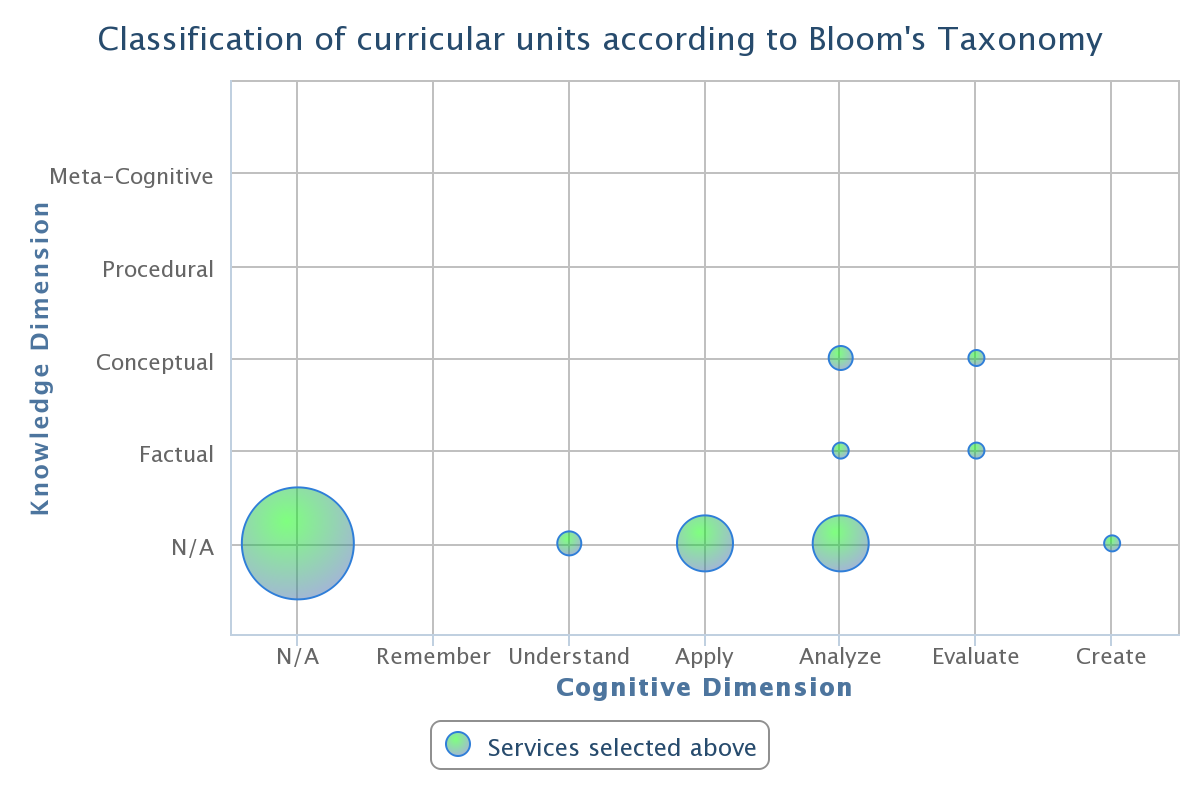
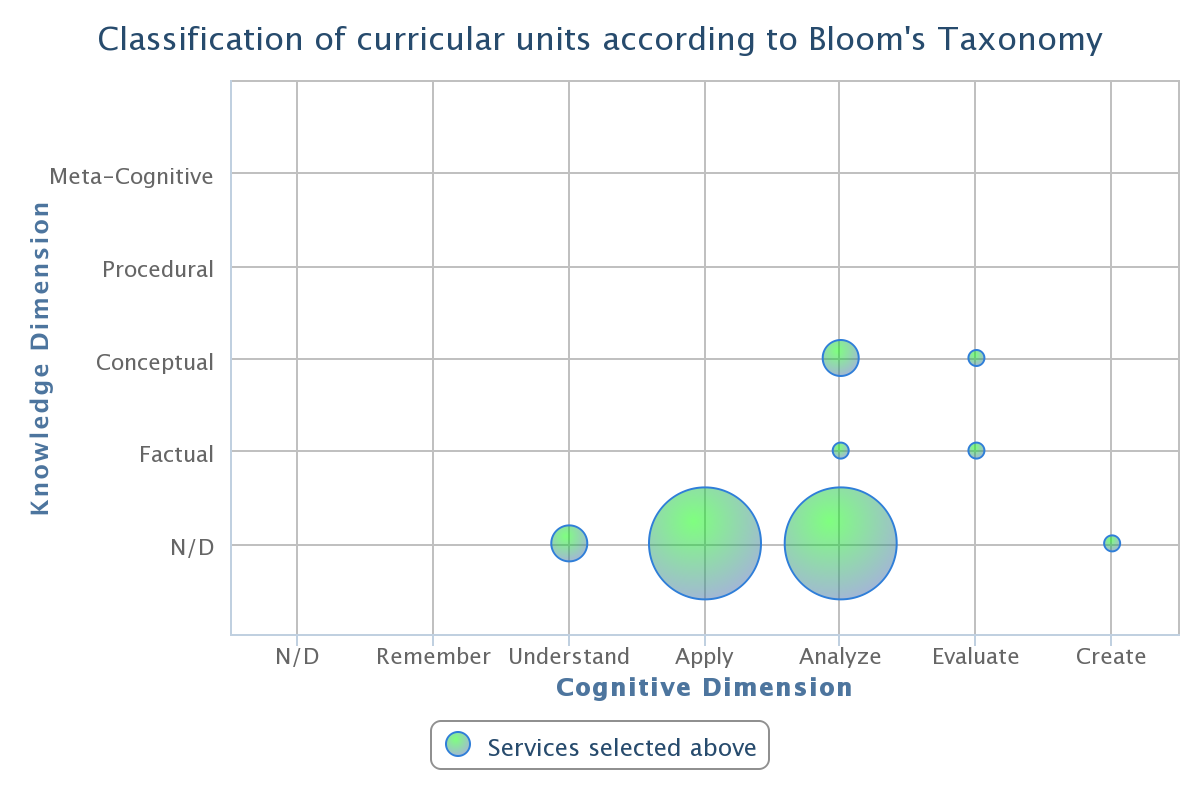
prints

diff --git a/webplatform/app/controllers/welcome_controller.rb b/webplatform/app/controllers/welcome_controller.rb
@@ -654,7 +654,7 @@ class WelcomeController < ApplicationController
 			f.options[:title][:text] = "Average of Curricular objectives according to Bloom's Taxonomy"
 			f.options[:xAxis]={
 				:title => {:text => "Cognitive Dimension"},
-				:categories => ["N/A", "Remember" ,"Understand" , "Apply" , "Analyze" , "Evaluate" , "Create"],
+				:categories => ["N/D", "Remember" ,"Understand" , "Apply" , "Analyze" , "Evaluate" , "Create"],
 				:tickPositions => [0,1,2,3,4,5,6],
 				:gridLineWidth => '1',
 				:lineWidth => 1,
@@ -664,7 +664,7 @@ class WelcomeController < ApplicationController
 			}
 			f.options[:yAxis]={
 				:title => {:text => "Knowledge Dimension"},
-				:categories => ["N/A", "Factual" ,"Conceptual" , "Procedural" , "Meta-Cognitive"],
+				:categories => ["N/D", "Factual" ,"Conceptual" , "Procedural" , "Meta-Cognitive"],
 				:tickPositions => [0,1,2,3,4],
 				:gridLineWidth => '1',
 				:lineWidth => 1,
@@ -689,7 +689,7 @@ class WelcomeController < ApplicationController
 			f.options[:title][:text] = "Objectives Identified according to Bloom's Taxonomy"
 			f.options[:xAxis]={
 				:title => {:text => "Cognitive Dimension"},
-				:categories => ["N/A", "Remember" ,"Understand" , "Apply" , "Analyze" , "Evaluate" , "Create"],
+				:categories => ["N/D", "Remember" ,"Understand" , "Apply" , "Analyze" , "Evaluate" , "Create"],
 				:tickPositions => [0,1,2,3,4,5,6],
 				:gridLineWidth => '1',
 				:lineWidth => 1,
@@ -699,7 +699,7 @@ class WelcomeController < ApplicationController
 			}
 			f.options[:yAxis]={
 				:title => {:text => "Knowledge Dimension"},
-				:categories => ["N/A", "Factual" ,"Conceptual" , "Procedural" , "Meta-Cognitive"],
+				:categories => ["N/D", "Factual" ,"Conceptual" , "Procedural" , "Meta-Cognitive"],
 				:tickPositions => [0,1,2,3,4],
 				:gridLineWidth => '1',
 				:lineWidth => 1,
@@ -1078,7 +1078,7 @@ class WelcomeController < ApplicationController
 				f.options[:title][:text] = "Objectives trend according to Bloom's Taxonomy"
 				f.options[:xAxis]={
 					:title => {:text => "Cognitive Dimension"},
-					:categories => ["N/A", "Remember" ,"Understand" , "Apply" , "Analyze" , "Evaluate" , "Create"],
+					:categories => ["N/D", "Remember" ,"Understand" , "Apply" , "Analyze" , "Evaluate" , "Create"],
 					:tickPositions => [0,1,2,3,4,5,6],
 					:gridLineWidth => '1',
 					:lineWidth => 1,
@@ -1088,7 +1088,7 @@ class WelcomeController < ApplicationController
 				}
 				f.options[:yAxis]={
 					:title => {:text => "Knowledge Dimension"},
-					:categories => ["N/A", "Factual" ,"Conceptual" , "Procedural" , "Meta-Cognitive"],
+					:categories => ["N/D", "Factual" ,"Conceptual" , "Procedural" , "Meta-Cognitive"],
 					:tickPositions => [0,1,2,3,4],
 					:gridLineWidth => '1',
 					:lineWidth => 1,
@@ -1113,7 +1113,7 @@ class WelcomeController < ApplicationController
 				f.options[:title][:text] = "Objectives identified according to Bloom's Taxonomy"
 				f.options[:xAxis]={
 					:title => {:text => "Cognitive Dimension"},
-					:categories => ["N/A", "Remember" ,"Understand" , "Apply" , "Analyze" , "Evaluate" , "Create"],
+					:categories => ["N/D", "Remember" ,"Understand" , "Apply" , "Analyze" , "Evaluate" , "Create"],
 					:tickPositions => [0,1,2,3,4,5,6],
 					:gridLineWidth => '1',
 					:lineWidth => 1,
@@ -1123,7 +1123,7 @@ class WelcomeController < ApplicationController
 				}
 				f.options[:yAxis]={
 					:title => {:text => "Knowledge Dimension"},
-					:categories => ["N/A", "Factual" ,"Conceptual" , "Procedural" , "Meta-Cognitive"],
+					:categories => ["N/D", "Factual" ,"Conceptual" , "Procedural" , "Meta-Cognitive"],
 					:tickPositions => [0,1,2,3,4],
 					:gridLineWidth => '1',
 					:lineWidth => 1,
@@ -1371,7 +1371,7 @@ class WelcomeController < ApplicationController
 		# 	f.options[:title][:text] = "Avegare of Dregree according to Bloom's Taxonomy"
 		# 	f.options[:xAxis]={
 		# 		:title => {:text => "Cognitive Dimension"},
-		# 		:categories => ["N/A", "Remember" ,"Understand" , "Apply" , "Analyze" , "Evaluate" , "Create"],
+		# 		:categories => ["N/D", "Remember" ,"Understand" , "Apply" , "Analyze" , "Evaluate" , "Create"],
 		# 		:tickPositions => [0,1,2,3,4,5,6],
 		# 		:gridLineWidth => '1',
 		# 		:lineWidth => 1,
@@ -1381,7 +1381,7 @@ class WelcomeController < ApplicationController
 		# 	}
 		# 	f.options[:yAxis]={
 		# 		:title => {:text => "Knowledge Dimension"},
-		# 		:categories => ["N/A", "Factual" ,"Conceptual" , "Procedural" , "Meta-Cognitive"],
+		# 		:categories => ["N/D", "Factual" ,"Conceptual" , "Procedural" , "Meta-Cognitive"],
 		# 		:tickPositions => [0,1,2,3,4],
 		# 		:gridLineWidth => '1',
 		# 		:lineWidth => 1,
@@ -1412,7 +1412,7 @@ class WelcomeController < ApplicationController
 			f.options[:title][:text] = "Objectives of each curricular unit according to Bloom's Taxonomy"
 			f.options[:xAxis]={
 				:title => {:text => "Cognitive Dimension"},
-				:categories => ["N/A", "Remember" ,"Understand" , "Apply" , "Analyze" , "Evaluate" , "Create"],
+				:categories => ["N/D", "Remember" ,"Understand" , "Apply" , "Analyze" , "Evaluate" , "Create"],
 				:tickPositions => [0,1,2,3,4,5,6],
 				:gridLineWidth => '1',
 				:lineWidth => 1,
@@ -1422,7 +1422,7 @@ class WelcomeController < ApplicationController
 			}
 			f.options[:yAxis]={
 				:title => {:text => "Knowledge Dimension"},
-				:categories => ["N/A", "Factual" ,"Conceptual" , "Procedural" , "Meta-Cognitive"],
+				:categories => ["N/D", "Factual" ,"Conceptual" , "Procedural" , "Meta-Cognitive"],
 				:tickPositions => [0,1,2,3,4],
 				:gridLineWidth => '1',
 				:lineWidth => 1,
@@ -1464,7 +1464,7 @@ class WelcomeController < ApplicationController
 			f.options[:title][:text] = "Classification of curricular units according to Bloom's Taxonomy"
 			f.options[:xAxis]={
 				:title => {:text => "Cognitive Dimension"},
-				:categories => ["N/A", "Remember" ,"Understand" , "Apply" , "Analyze" , "Evaluate" , "Create"],
+				:categories => ["N/D", "Remember" ,"Understand" , "Apply" , "Analyze" , "Evaluate" , "Create"],
 				:tickPositions => [0,1,2,3,4,5,6],
 				:gridLineWidth => '1',
 				:lineWidth => 1,
@@ -1474,7 +1474,7 @@ class WelcomeController < ApplicationController
 			}
 			f.options[:yAxis]={
 				:title => {:text => "Knowledge Dimension"},
-				:categories => ["N/A", "Factual" ,"Conceptual" , "Procedural" , "Meta-Cognitive",""],
+				:categories => ["N/D", "Factual" ,"Conceptual" , "Procedural" , "Meta-Cognitive",""],
 				:tickPositions => [0,1,2,3,4,5],
 				:gridLineWidth => '1',
 				:lineWidth => 1,
@@ -1880,7 +1880,7 @@ class WelcomeController < ApplicationController
 
 		end
 
-
+		@a[0][0]=0
 		@final=Hash.new
 		sorted = @context.sorted_hash{ |a, b| -a[1]["n"] <=> -b[1]["n"] }
 
@@ -1923,7 +1923,7 @@ class WelcomeController < ApplicationController
 		# 	f.options[:title][:text] = "Average of Curricular units according to Bloom's Taxonomy"
 		# 	f.options[:xAxis]={
 		# 		:title => {:text => "Cognitive Dimension"},
-		# 		:categories => ["N/A", "Remember" ,"Understand" , "Apply" , "Analyze" , "Evaluate" , "Create"],
+		# 		:categories => ["N/D", "Remember" ,"Understand" , "Apply" , "Analyze" , "Evaluate" , "Create"],
 		# 		:tickPositions => [0,1,2,3,4,5,6],
 		# 		:gridLineWidth => '1',
 		# 		:lineWidth => 1,
@@ -1933,7 +1933,7 @@ class WelcomeController < ApplicationController
 		# 	}
 		# 	f.options[:yAxis]={
 		# 		:title => {:text => "Knowledge Dimension"},
-		# 		:categories => ["N/A", "Factual" ,"Conceptual" , "Procedural" , "Meta-Cognitive"],
+		# 		:categories => ["N/D", "Factual" ,"Conceptual" , "Procedural" , "Meta-Cognitive"],
 		# 		:tickPositions => [0,1,2,3,4],
 		# 		:gridLineWidth => '1',
 		# 		:lineWidth => 1,
@@ -1958,7 +1958,7 @@ class WelcomeController < ApplicationController
 			f.options[:title][:text] = "Classification of curricular units according to Bloom's Taxonomy"
 			f.options[:xAxis]={
 				:title => {:text => "Cognitive Dimension"},
-				:categories => ["N/A", "Remember" ,"Understand" , "Apply" , "Analyze" , "Evaluate" , "Create"],
+				:categories => ["N/D", "Remember" ,"Understand" , "Apply" , "Analyze" , "Evaluate" , "Create"],
 				:tickPositions => [0,1,2,3,4,5,6],
 				:gridLineWidth => '1',
 				:lineWidth => 1,
@@ -1968,7 +1968,7 @@ class WelcomeController < ApplicationController
 			}
 			f.options[:yAxis]={
 				:title => {:text => "Knowledge Dimension"},
-				:categories => ["N/A", "Factual" ,"Conceptual" , "Procedural" , "Meta-Cognitive",""],
+				:categories => ["N/D", "Factual" ,"Conceptual" , "Procedural" , "Meta-Cognitive",""],
 				:tickPositions => [0,1,2,3,4,5],
 				:gridLineWidth => '1',
 				:lineWidth => 1,
